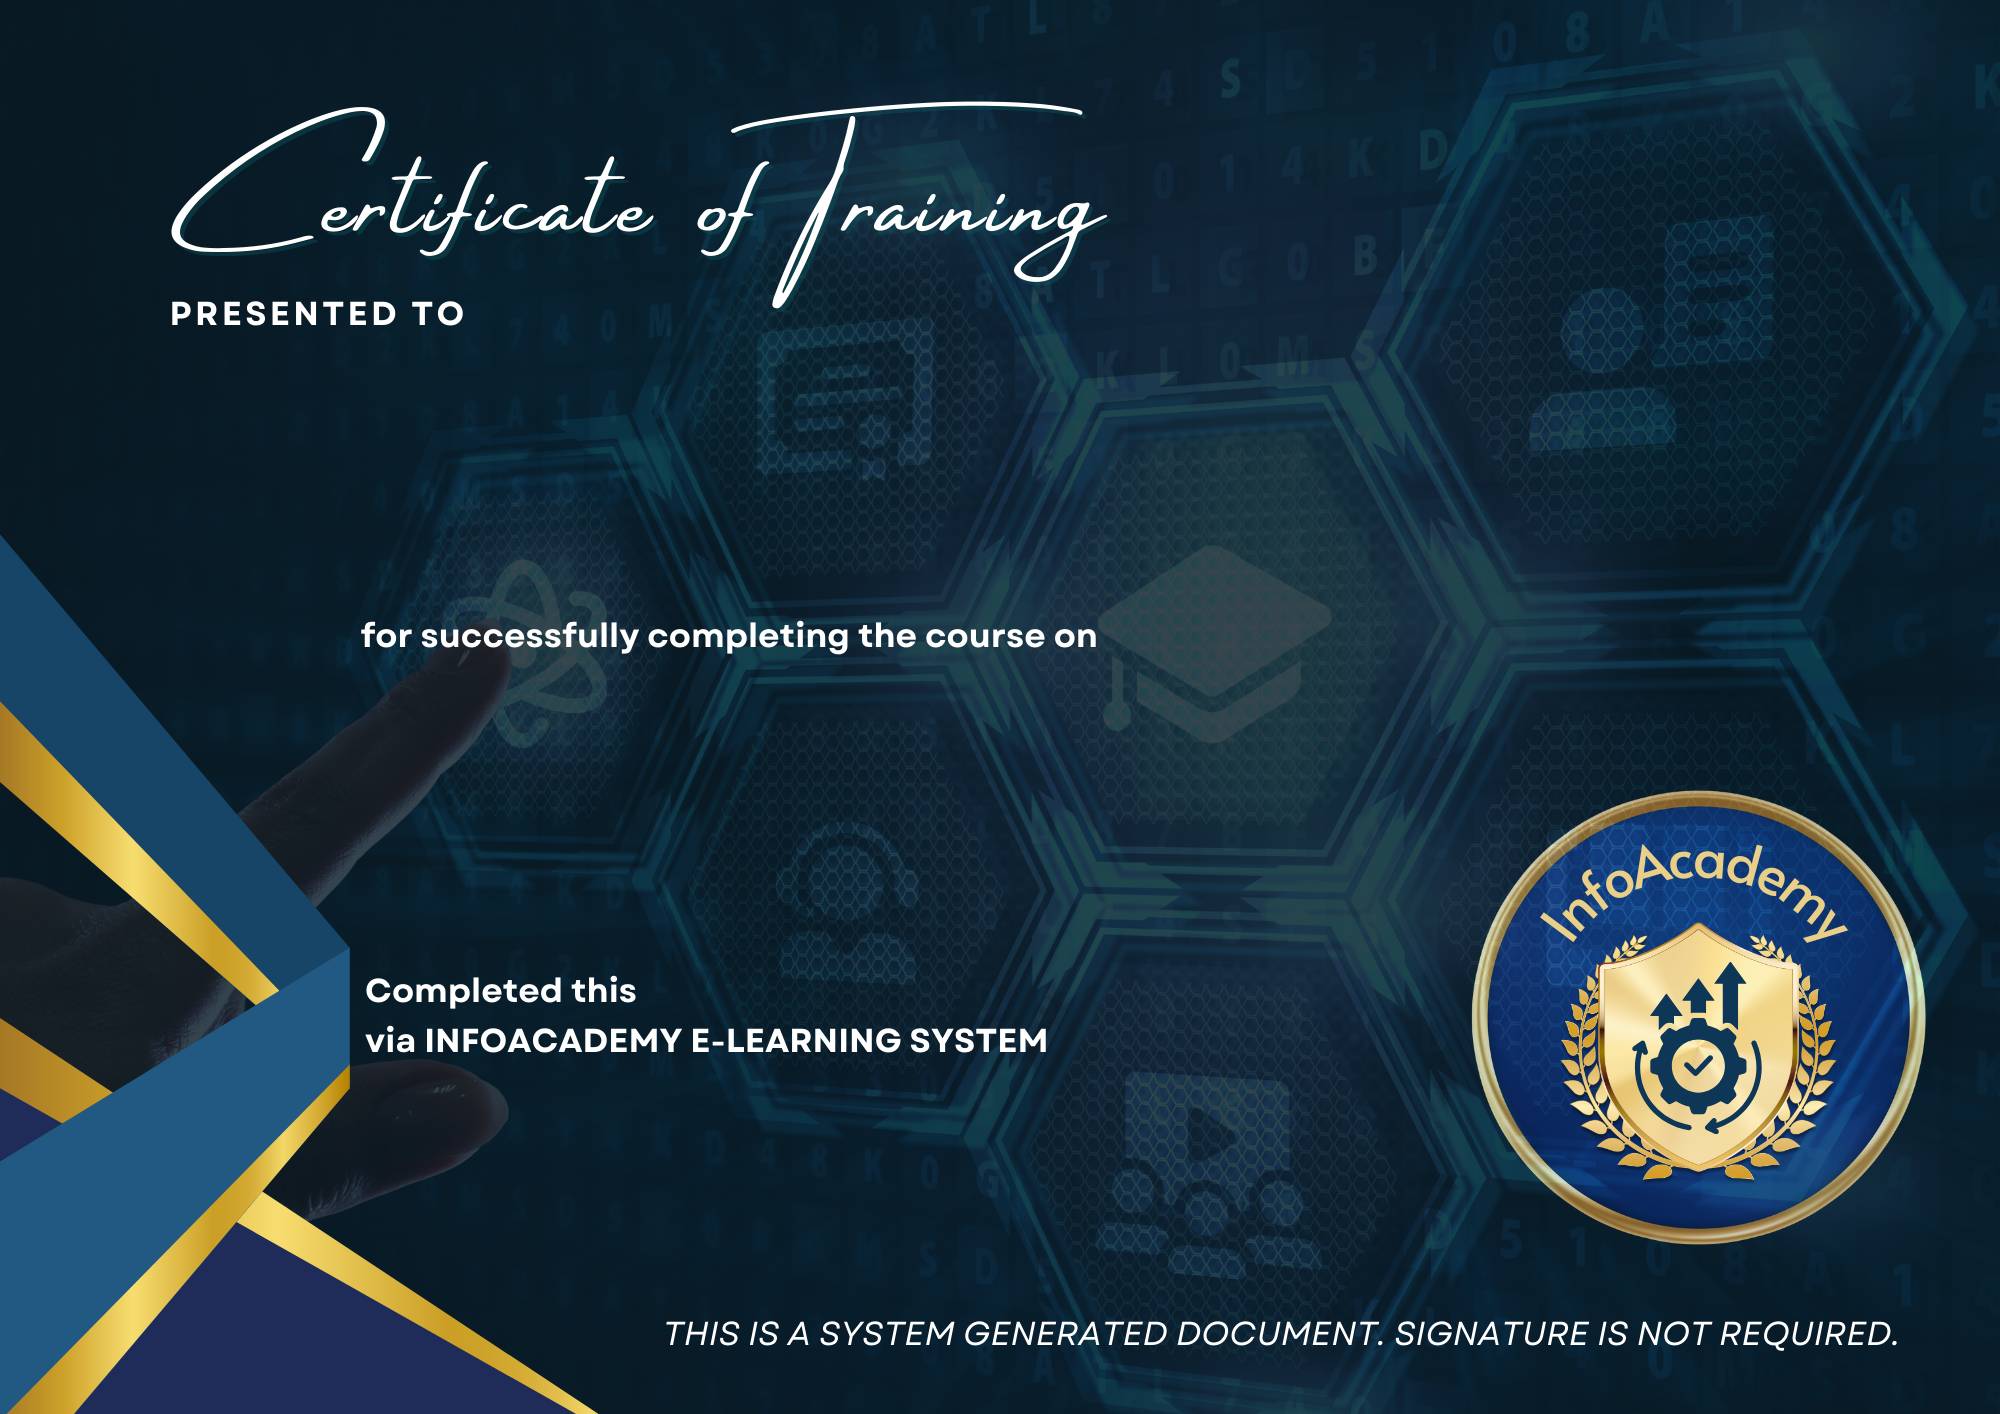
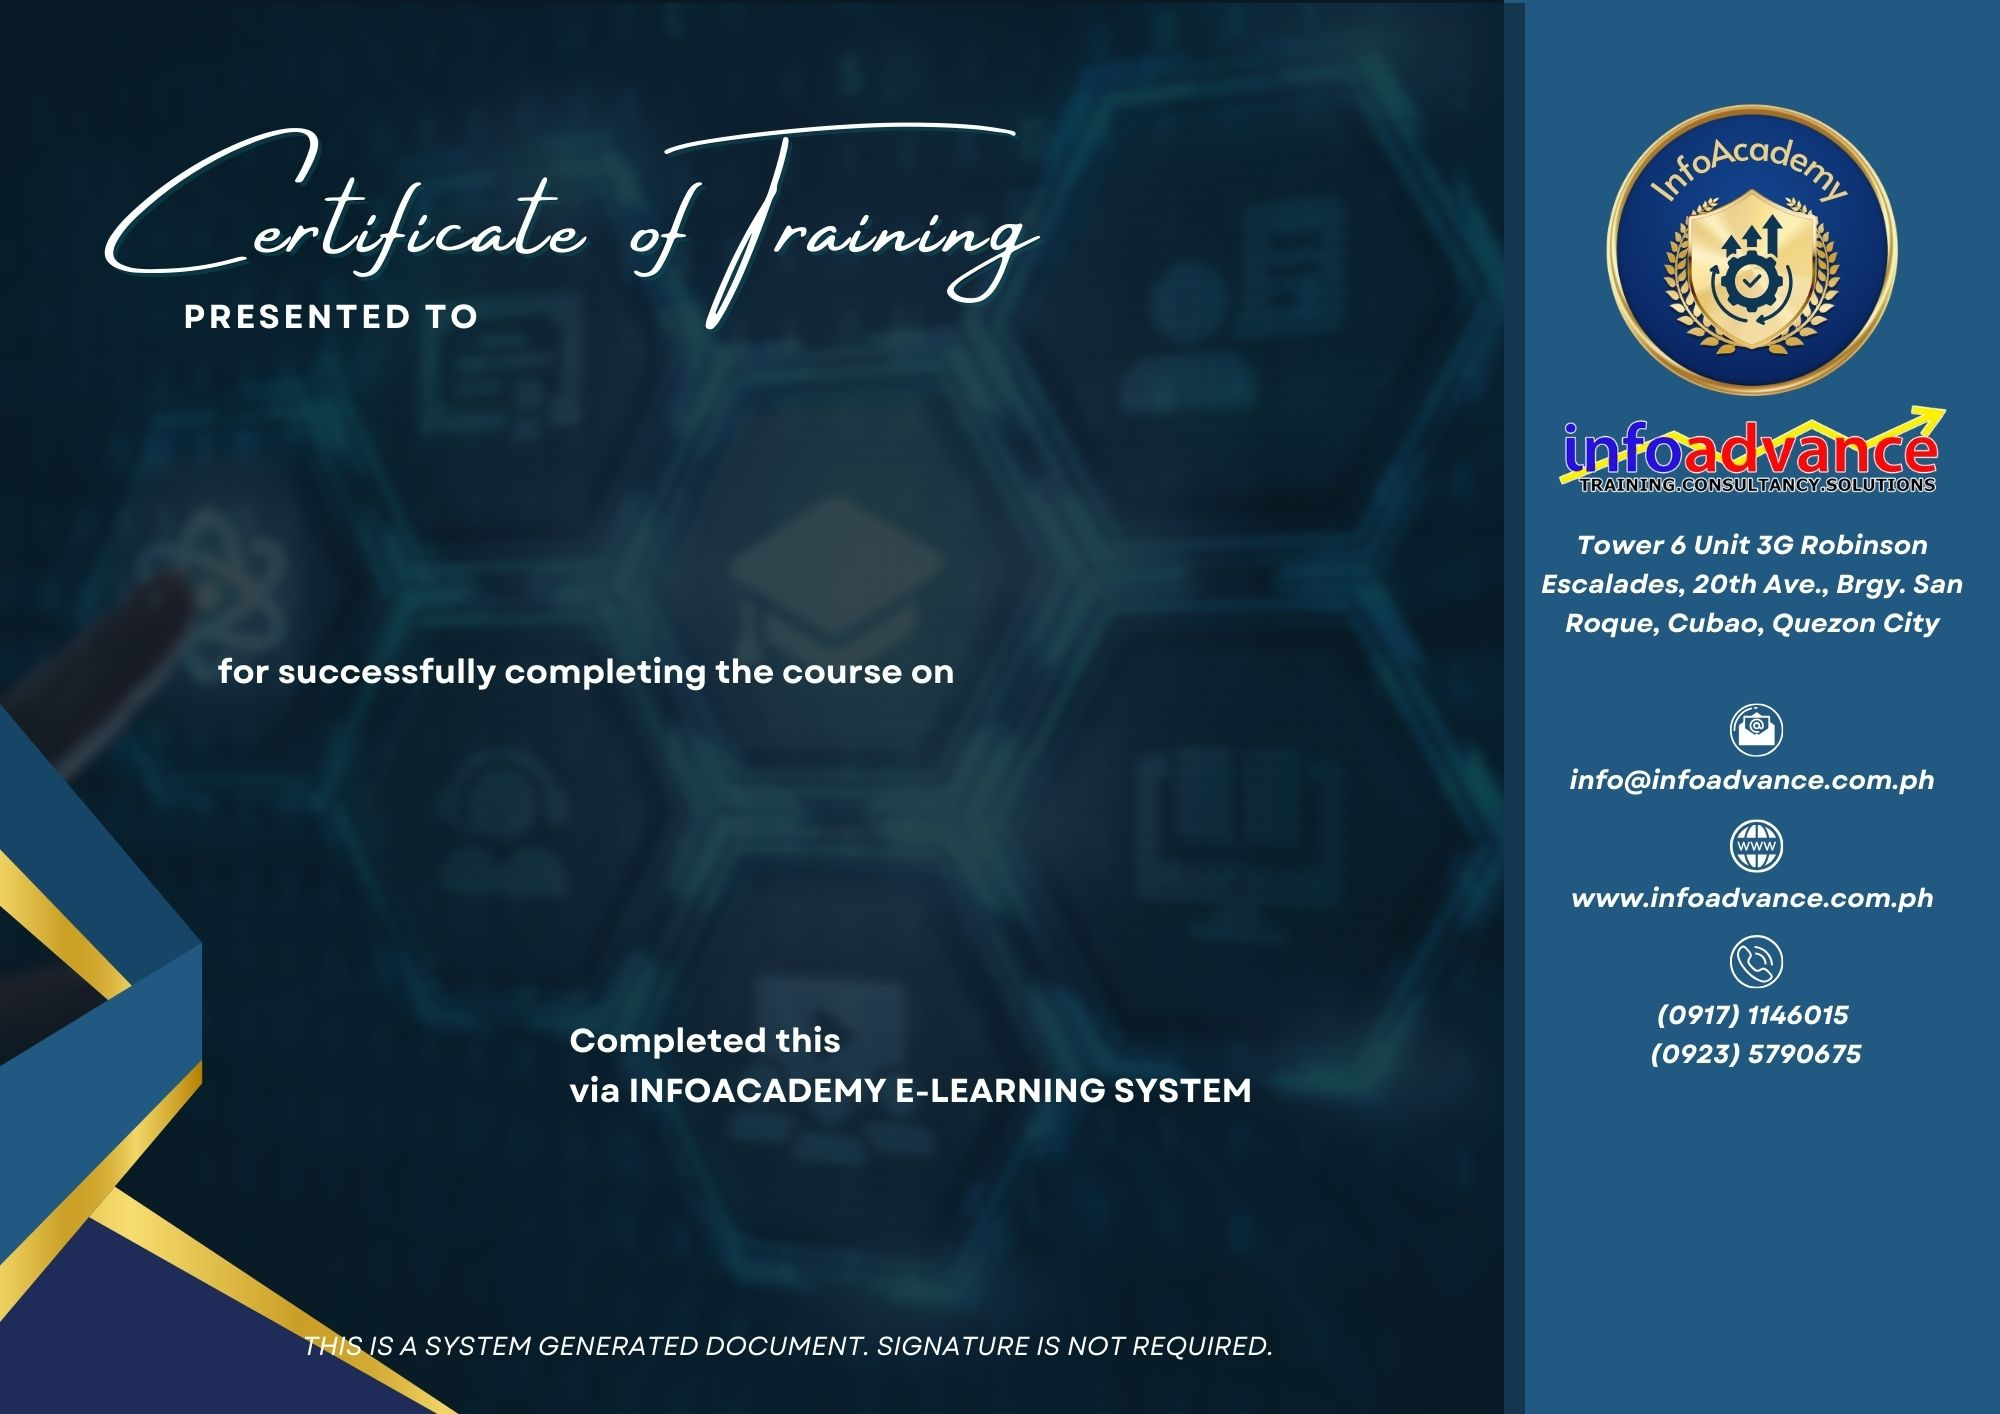
update

diff --git a/application/views/certificate.php b/application/views/certificate.php
@@ -26,11 +26,8 @@
       height: 210mm;
       position: relative;
 
-      /* Option A: Use a file:// path if you prefer local filesystem references:
-         background: url("file:///<?= FCPATH . 'assets/unicat/images/certificate.png' ?>") no-repeat center center; */
 
-      /* Option B: Use base_url() if you have isRemoteEnabled = true in Dompdf: */
-      background: url("<?= base_url('assets/unicat/images/certificate.png') ?>") no-repeat center center;
+      background: url("<?= base_url('assets/unicat/images/certificate.jpg') ?>") no-repeat center center;
 
       background-size: cover;
     }
